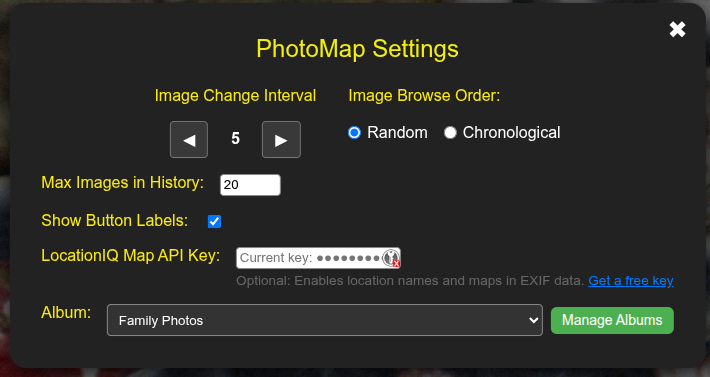
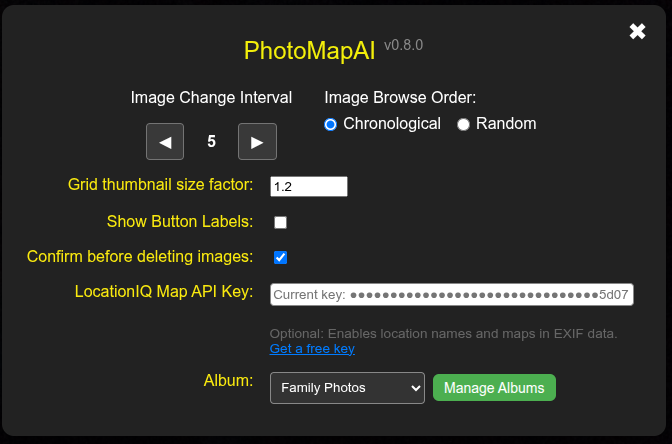
allow user to scale size of grid thumbnails

diff --git a/photomap/frontend/static/javascript/settings.js b/photomap/frontend/static/javascript/settings.js
@@ -37,6 +37,7 @@ function cacheElements() {
       "showControlPanelTextCheckbox"
     ),
     confirmDeleteCheckbox: document.getElementById("confirmDeleteCheckbox"),
+    gridThumbSizeFactor: document.getElementById("gridThumbSizeFactor"),
   };
 }
 
@@ -159,6 +160,10 @@ async function populateModalFields() {
   // Set the confirm delete checkbox state
   if (elements.confirmDeleteCheckbox)
     elements.confirmDeleteCheckbox.checked = !state.suppressDeleteConfirm;
+
+  // Set the grid thumbnail size factor spinner value
+  if (elements.gridThumbSizeFactor)
+    elements.gridThumbSizeFactor.value = state.gridThumbSizeFactor;
 
   await loadLocationIQApiKey();
 }
@@ -288,6 +293,25 @@ function setupLocationIQApiKeyControl() {
   });
 }
 
+function setupGridThumbSizeFactorControl() {
+  if (!elements.gridThumbSizeFactor) return;
+  let debounceTimeout = null;
+  elements.gridThumbSizeFactor.addEventListener("input", function () {
+    clearTimeout(debounceTimeout);
+    debounceTimeout = setTimeout(() => {
+      let val = parseFloat(this.value);
+      if (isNaN(val) || val < 0.5) val = 0.5;
+      if (val > 2.0) val = 2.0;
+      state.gridThumbSizeFactor = val;
+      saveSettingsToLocalStorage();
+      // Notify grid to reinitialize
+      window.dispatchEvent(
+        new CustomEvent("gridThumbSizeFactorChanged", { detail: { factor: val } })
+      );
+    }, 300); // 300ms debounce
+  });
+}
+
 // MAIN INITIALIZATION FUNCTION
 async function initializeSettings() {
   cacheElements();
@@ -302,6 +326,7 @@ async function initializeSettings() {
   setupAlbumSelector();
   setupLocationIQApiKeyControl();
   setupConfirmDeleteControl();
+  setupGridThumbSizeFactorControl();
 }
 
 // Initialize settings from the server and local storage

diff --git a/photomap/frontend/static/javascript/grid-view.js b/photomap/frontend/static/javascript/grid-view.js
@@ -28,13 +28,14 @@ const GRID_MAX_SCREENS = 6; // Keep up to this many screens in memory (tweakable
 // Consolidated geometry calculation function
 function calculateGridGeometry() {
   const gridContainer = document.querySelector(".swiper");
-  const availableWidth = gridContainer.offsetWidth - 24; // Account for padding
-  const availableHeight = window.innerHeight - 120; // Account for header/footer
+  const availableWidth = gridContainer.offsetWidth - 24;
+  const availableHeight = window.innerHeight - 120;
 
-  // Target square tile size (reduced)
-  const targetTileSize = 140; // Base tile size (was 200)
-  const minTileSize = 100; // allow smaller tiles
-  const maxTileSize = 200; // cap max size lower than before
+  // Use the factor from state
+  const factor = state.gridThumbSizeFactor || 1.0;
+  const targetTileSize = 150 * factor;
+  const minTileSize = 75; // allow smaller tiles
+  const maxTileSize = 300; // cap max size lower than before
 
   // Calculate columns and rows to fit available space with square tiles
   const columns = Math.max(2, Math.floor(availableWidth / targetTileSize));
@@ -156,6 +157,16 @@ function addGridEventListeners() {
     { type: "grid", event: "slideChanged" },
     async function (e) {
       // nothing for now
+    }
+  );
+
+  // Handle changes to tile size factor
+  // Listen for gridThumbSizeFactorChanged event to reinitialize grid
+  eventRegistry.install(
+    { type: "grid", event: "gridThumbSizeFactorChanged" },
+    async function () {
+      await initializeGridSwiper();
+      await resetAllSlides();
     }
   );
 

diff --git a/photomap/frontend/static/javascript/state.js b/photomap/frontend/static/javascript/state.js
@@ -17,6 +17,7 @@ export const state = {
   availableAlbums: [], // List of available albums
   dataChanged: true, // Flag to indicate if umap data has changed (TO DO - REVISIT THIS)
   suppressDeleteConfirm: false,
+  gridThumbSizeFactor: 1.0,
 };
 
 document.addEventListener("DOMContentLoaded", async function () {
@@ -88,6 +89,11 @@ export async function restoreFromLocalStorage() {
   if (storedSuppressDeleteConfirm !== null) {
     state.suppressDeleteConfirm = storedSuppressDeleteConfirm === "true";
   }
+
+  const storedGridThumbSizeFactor = localStorage.getItem("gridThumbSizeFactor");
+  if (storedGridThumbSizeFactor !== null) {
+    state.gridThumbSizeFactor = parseFloat(storedGridThumbSizeFactor);
+  }
 }
 
 // Save state to local storage
@@ -102,6 +108,7 @@ export function saveSettingsToLocalStorage() {
   );
   localStorage.setItem("gridViewActive", state.gridViewActive ? "true" : "false");
   localStorage.setItem("suppressDeleteConfirm", state.suppressDeleteConfirm ? "true" : "false");
+  localStorage.setItem("gridThumbSizeFactor", state.gridThumbSizeFactor);
 }
 
 export async function setAlbum(newAlbumKey, force = false) {

diff --git a/photomap/frontend/templates/modules/settings.html b/photomap/frontend/templates/modules/settings.html
@@ -53,6 +53,18 @@
     </div>
 
     <!-- Settings rows -->
+    <div class="setting-row">
+      <label for="gridThumbSizeFactor">Grid thumbnail size factor:</label>
+      <input
+        type="number"
+        id="gridThumbSizeFactor"
+        min="0.5"
+        max="2.0"
+        step="0.05"
+        value="1.0"
+        style="width: 70px"
+      />
+    </div>
     <!-- Row for control panel text visibility -->
     <div class="setting-row">
       <label for="showControlPanelTextCheckbox">Show Button Labels:</label>
@@ -84,10 +96,7 @@
         "
       >
         Optional: Enables location names and maps in EXIF data.
-        <a
-          href="https://locationiq.com"
-          target="_blank"
-          style="color: #007bff"
+        <a href="https://locationiq.com" target="_blank" style="color: #007bff"
           >Get a free key</a
         >
       </small>

diff --git a/docs/user-guide/basic-usage.md b/docs/user-guide/basic-usage.md
@@ -104,7 +104,8 @@ The Gear icon opens the settings dialogue, which allows you to adjust the appear
 <img src="../../img/photomap_settings.png" width="480" alt="PhotoMapAI Settings Dialogue" class="img-hover-zoom">
 
 - **Image Change Interval** -- When the slideshow is running, this controls how long each image will be displayed, in seconds.
-- **Image Browse Order** -- When the slideshow is running, or when you are browsing the album without an active search, this controls the order in which photos are displayed. "Random" will present the images in shuffled order, while "Chronological" will show them in order from oldest to newest.
+- **Image Browse Order** -- When the slideshow is running, or when you are browsing the album without an active search, this controls the order in which images are displayed. "Random" will present the images in shuffled order, while "Chronological" will show them in order from oldest to newest.
+- **Grid thumbnail size factor** -- This allows you to change the size of the image thumbnails by scaling them from a maximum of 2.0 (double default size) to a minimum of 0.5 (half default size). Be aware that the grid takes longer to load with small thumbnails.
 - **Max Images in History** -- PhotoMapAI keeps a small number of recently-viewed photos in memory. The others are swapped in and out to disk. This value controls how many images are kept in memory at once. Reduce the size if you are having memory problems or the application seems to be slowing down.
 - **LocationIQ Map API Key** -- This optional API key lets PhotoMapAI display thumbnail maps and named locations for photos that contain GPS geolocation information. If you wish to enable this feature, get a key for free from [LocationIQ](http://locationiq.com/) and paste it into the field. If not present, PhotoMapAI will display the longitude and latitude of the photo, but not the map or place name.
 - **Album** -- This pulldown menu lists all the albums you have configured and allows you to switch among them. Note that when you switch albums, the settings dialogue will close immediately and the window will display the first photo from the selected albums.
